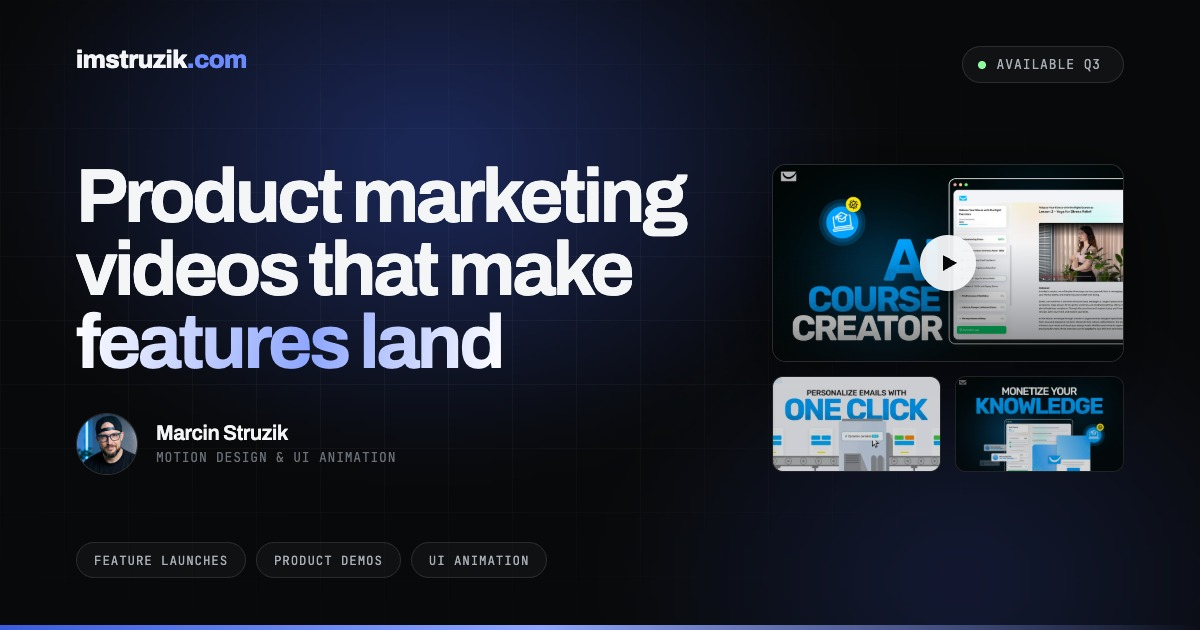
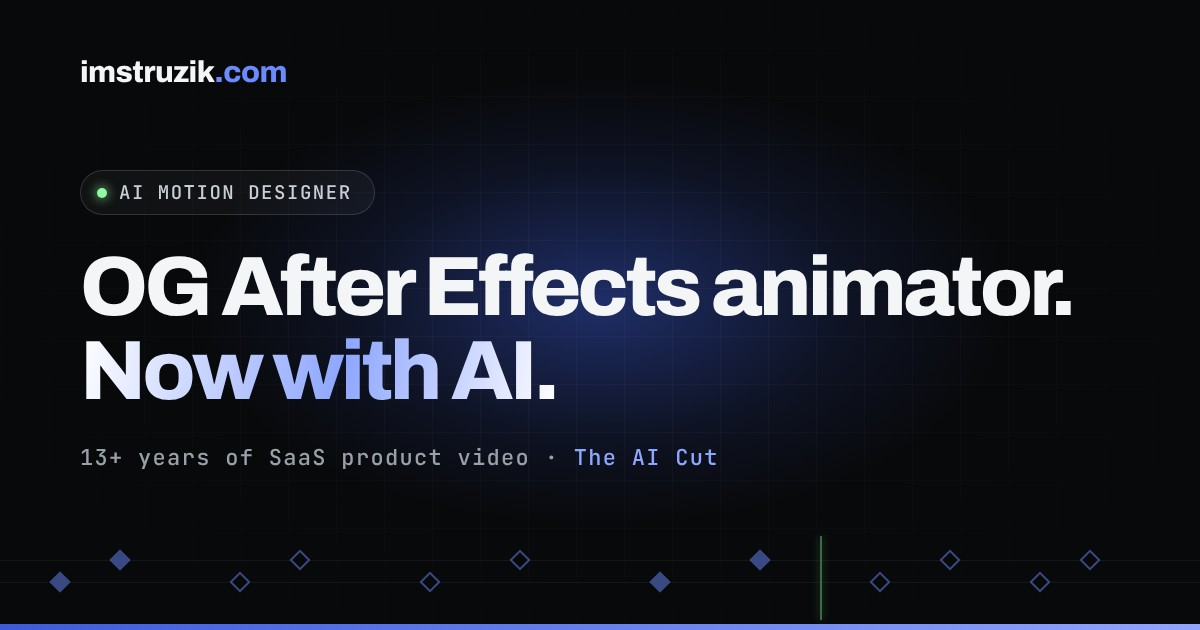
New social preview image: drop the old "Available Q3" sales card
og.jpg still showed the pre-repositioning card (Product marketing videos that
make features land, AVAILABLE Q3). Replace it with the current positioning
(OG After Effects animator. Now with AI.) and add ?v=2 so LinkedIn and others
re-fetch it.

Claude-Session: https://claude.ai/code/session_01482EpDqDCHFWuDnKSFo8Dg

diff --git a/index.html b/index.html
@@ -17,14 +17,14 @@
 <meta property="og:site_name" content="imstruzik.com">
 <meta property="og:title" content="Marcin Struzik — AI Motion Designer &amp; SaaS Product Video">
 <meta property="og:description" content="Marcin Struzik: AI motion designer, 13+ years in SaaS product video. OG After Effects animator now blending keyframes with AI. Free resources + newsletter.">
-<meta property="og:image" content="https://imstruzik.com/og.jpg">
+<meta property="og:image" content="https://imstruzik.com/og.jpg?v=2">
 <meta property="og:image:width" content="1200">
 <meta property="og:image:height" content="630">
 
 <meta name="twitter:card" content="summary_large_image">
 <meta name="twitter:title" content="Marcin Struzik — AI Motion Designer &amp; SaaS Product Video">
 <meta name="twitter:description" content="Marcin Struzik: AI motion designer, 13+ years in SaaS product video. OG After Effects animator now blending keyframes with AI. Free resources + newsletter.">
-<meta name="twitter:image" content="https://imstruzik.com/og.jpg">
+<meta name="twitter:image" content="https://imstruzik.com/og.jpg?v=2">
 
 <link rel="icon" type="image/png" href="/favicon.png">
 <link rel="apple-touch-icon" href="/favicon.png">

diff --git a/downloads/index.html b/downloads/index.html
@@ -17,14 +17,14 @@
 <meta property="og:site_name" content="imstruzik.com">
 <meta property="og:title" content="Free Downloads for Video Creators | Marcin Struzik">
 <meta property="og:description" content="Free templates, prompt packs, checklists and a browser extension Marcin Struzik built for his own SaaS video work. One signup, everything unlocked.">
-<meta property="og:image" content="https://imstruzik.com/og.jpg">
+<meta property="og:image" content="https://imstruzik.com/og.jpg?v=2">
 <meta property="og:image:width" content="1200">
 <meta property="og:image:height" content="630">
 
 <meta name="twitter:card" content="summary_large_image">
 <meta name="twitter:title" content="Free Downloads for Video Creators | Marcin Struzik">
 <meta name="twitter:description" content="Free templates, prompt packs, checklists and a browser extension Marcin Struzik built for his own SaaS video work. One signup, everything unlocked.">
-<meta name="twitter:image" content="https://imstruzik.com/og.jpg">
+<meta name="twitter:image" content="https://imstruzik.com/og.jpg?v=2">
 
 <link rel="icon" type="image/png" href="/favicon.png">
 <link rel="apple-touch-icon" href="/favicon.png">

diff --git a/notes/index.html b/notes/index.html
@@ -17,14 +17,14 @@
 <meta property="og:site_name" content="imstruzik.com">
 <meta property="og:title" content="The AI Cut &mdash; How I Work with AI | Marcin Struzik">
 <meta property="og:description" content="Every note Marcin Struzik has written on using AI in SaaS product video: scripting, editing, free tools, and the tools worth keeping.">
-<meta property="og:image" content="https://imstruzik.com/og.jpg">
+<meta property="og:image" content="https://imstruzik.com/og.jpg?v=2">
 <meta property="og:image:width" content="1200">
 <meta property="og:image:height" content="630">
 
 <meta name="twitter:card" content="summary_large_image">
 <meta name="twitter:title" content="The AI Cut &mdash; How I Work with AI | Marcin Struzik">
 <meta name="twitter:description" content="Every note Marcin Struzik has written on using AI in SaaS product video: scripting, editing, free tools, and the tools worth keeping.">
-<meta name="twitter:image" content="https://imstruzik.com/og.jpg">
+<meta name="twitter:image" content="https://imstruzik.com/og.jpg?v=2">
 
 <link rel="icon" type="image/png" href="/favicon.png">
 <link rel="apple-touch-icon" href="/favicon.png">

diff --git a/uses/index.html b/uses/index.html
@@ -17,14 +17,14 @@
 <meta property="og:site_name" content="imstruzik.com">
 <meta property="og:title" content="What I Use">
 <meta property="og:description" content="The tools I use for SaaS video work and recommend, with affiliate links clearly marked.">
-<meta property="og:image" content="https://imstruzik.com/og.jpg">
+<meta property="og:image" content="https://imstruzik.com/og.jpg?v=2">
 <meta property="og:image:width" content="1200">
 <meta property="og:image:height" content="630">
 
 <meta name="twitter:card" content="summary_large_image">
 <meta name="twitter:title" content="What I Use">
 <meta name="twitter:description" content="The tools I use for SaaS video work and recommend, with affiliate links clearly marked.">
-<meta name="twitter:image" content="https://imstruzik.com/og.jpg">
+<meta name="twitter:image" content="https://imstruzik.com/og.jpg?v=2">
 
 <script type="application/ld+json">
 {
